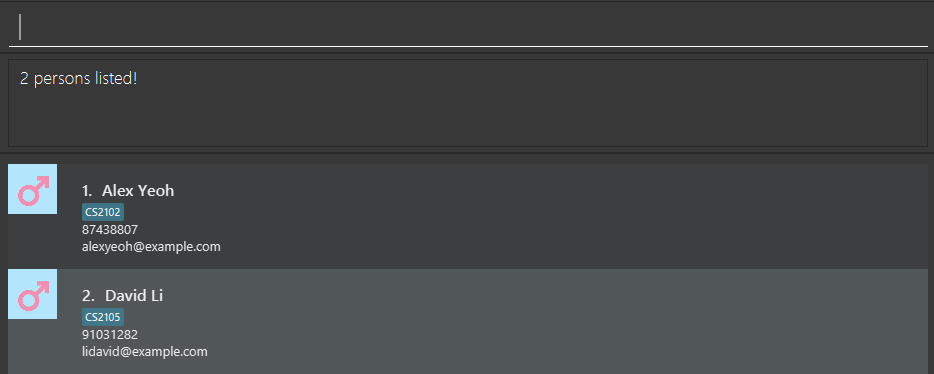
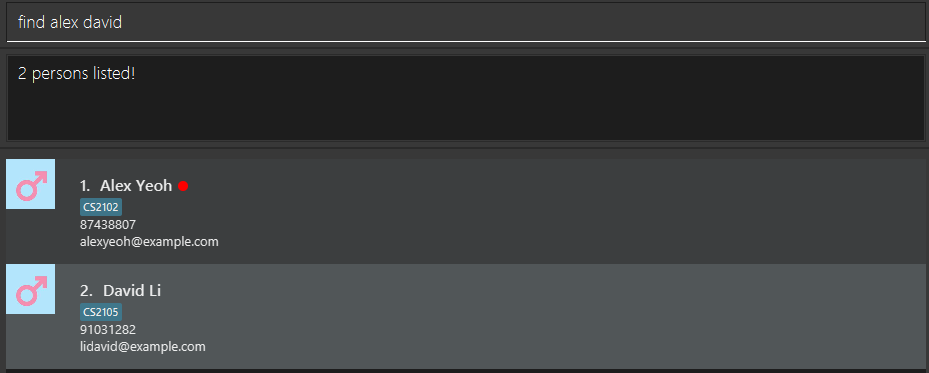
UG updates

diff --git a/docs/UserGuide.md b/docs/UserGuide.md
@@ -19,7 +19,7 @@
 1. Ensure you have Java `17` or above installed in your Computer.<br>
    **Mac users:** Ensure you have the precise JDK version prescribed [here](https://se-education.org/guides/tutorials/javaInstallationMac.html).
 
-1. Download the latest `.jar` file from [here](https://github.com/se-edu/mentorstack-level3/releases).
+1. Download the latest `.jar` file from [here](https://github.com/AY2425S2-CS2103-W11-1/tp/releases).
 
 1. Copy the file to the folder you want to use as the _home folder_ for Mentorstack.
 
@@ -65,7 +65,24 @@
 * Extraneous parameters for commands that do not take in parameters (such as `help`, `list`, `exit` and `clear`) will be ignored.<br>
   e.g. if the command specifies `help 123`, it will be interpreted as `help`.
 
-* If you are using a PDF version of this document, be careful when copying and pasting commands that span multiple lines as space characters surrounding line-breaks may be omitted when copied over to the application.
+**Notes about entries in Mentorstack**:
+
+* Each student entry in Mentorstack must have valid parameters for the following:
+  - Name
+  - Gender
+  - Phone
+  - Email
+  - Subject
+
+
+* Students must have 1 or more subjects, each subject can be marked as finished or unfinished.
+* Students can be archived, in which case they will be moved to the archive list where they cannot be edited.
+* Two student entries are considered the same entry if they have the same Name (case-sensitive).
+* Mentorstack does not allow duplicate entries.
+  - `Alex Yeoh` is a duplicate of `Alex Yeoh`, but is a different entry from `alex yeoh`.
+
+
+If you are using a PDF version of this document, be careful when copying and pasting commands that span multiple lines as space characters surrounding line-breaks may be omitted when copied over to the application.
 </box>
 
 ### Viewing help : `help`
@@ -85,10 +102,10 @@ Format: `add n/NAME g/GENDER p/PHONE_NUMBER e/EMAIL s/SUBJECT…`
 
 <box type="tip" seamless>
 
-**Tip:** A person can have any number of subjects (excluding 0)
+**Tip:** A person can have any number of subjects (excluding 0).
 </box>
 
-A person can only have F or M as gender inputs
+A person can only have F or M as gender inputs.
 </box>
 
 Examples:
@@ -111,6 +128,7 @@ Format: `edit INDEX [n/NAME] [g/GENDER] [p/PHONE] [e/EMAIL] [s/SUBJECT]…`
 * At least one of the optional fields must be provided.
 * Existing values will be updated to the input values.
 * When editing subjects, the existing subjects of the person will be removed i.e adding of subjects is not cumulative.
+* Finished subjects cannot be edited.
 * Cannot edit students who are already archived.
 
 Examples:
@@ -156,15 +174,14 @@ Keyword | Field
 * For NAME and SUBJECT, partial words will be matched e.g. `Han` will match `Hans`, `CS` will match `CS2103`
 * For SUBJECT, only unfinished subjects will be considered e.g. finished subjects are not counted by the filter.
 * For PHONE and EMAIL, partial words will be matched e.g. `123` will match `12345678`, `john` will match `john@doe.com`
-* `view` with invalid arguments will just list all persons.
-* `view` with no arguments will just list all persons.
+* `view` with invalid, incomplete or no arguments will just list all persons.
 * `view` can have multiple filters applied for any field (can be the same field).
 * Persons matching all filters will be returned (i.e. `AND` search).
 
 Examples:
-* `view f/n v/john` returns `john` and `John Doe`
-* `view f/s v/CS` returns all entries taking CS courses
-* `view f/p v/12345678 f/e v/john@doe.com` returns only entries with matching PHONE AND EMAIL<br>
+* `view f/n v/john` returns `john` and `John Doe`.
+* `view f/s v/CS` returns all entries taking CS courses.
+* `view f/p v/12345678 f/e v/john@doe.com` returns only entries partially containing PHONE AND EMAIL.<br>
 
 ### Deleting a person : `delete`
 
@@ -213,6 +230,7 @@ Examples:
 * Marked students will have a red circle next to their name.
 * Input can contain multiple indices.
 * Students remain marked if they have already been marked.
+* Archived students cannot be marked.
 
 Format: `mark INDEX…`
 
@@ -224,6 +242,7 @@ Examples:
 * Unmarks a student in Mentorstack.
 * Input can contain multiple indices.
 * Students remain unmarked if they have already been unmarked.
+* * Archived students cannot be unmarked.
 
 Format: `unmark INDEX…`
 
@@ -264,13 +283,14 @@ Examples:
 ### Indicate that a student has finished a subject : `finish`
 
 * Indicates that a student has finished a subject.
-* Finished subjects are still shown but will be marked as red.
+* Finished subjects are still shown but will be marked as a different colour.
 
 Format: `finish INDEX s/SUBJECT…`
 
 * Input can only contain subjects that students have enrolled in.
 * Input can contain multiple subjects.
 * Finished subjects remain finished.
+* Subjects of archived students cannot be finished.
 
 Examples:
 * `finish 1 s\CS2103` marks CS2103 as completed by student 1.
@@ -285,6 +305,7 @@ Format: `unfinish INDEX s/SUBJECT…`
 * Input can only contain subjects that students have enrolled in.
 * Input can contain multiple subjects.
 * Unfinished subjects remain unfinished.
+* Subjects of archived students cannot be unfinished.
 
 Examples:
 * `unfinish 1 s\CS2103` marks CS2103 as not completed by student 1.
@@ -294,6 +315,23 @@ Examples:
 Exits the program.
 
 Format: `exit`
+
+### Changing Mentorstack theme
+
+Mentorstack provides 3 visual themes to suit your preferences. You can change the theme by navigating to the View menu.
+
+Number| Theme
+------|----------------------------------------------------------------------------------------------------------------------------------------------------------------------
+1     | Dark
+2     | Pink
+3     | Light
+
+Mentorstack will always launch the Dark theme by default.
+
+### Viewing bar chart statistics
+
+Mentorstack provides users with the option to view the statistics of students in the current active list, sorted by currently enrolled subjects.
+Users may view these statistics by navigating to the View menu.
 
 ### Saving the data
 
@@ -306,13 +344,9 @@ Mentorstack data are saved automatically as a JSON file `[JAR file location]/dat
 <box type="warning" seamless>
 
 **Caution:**
-If your changes to the data file makes its format invalid, mentorstack will discard all data and start with an empty data file at the next run.  Hence, it is recommended to take a backup of the file before editing it.<br>
+If your changes to the data file makes its format invalid, Mentorstack will discard all data and start with an empty data file at the next run.  Hence, it is recommended to take a backup of the file before editing it.<br>
 Furthermore, certain edits can cause Mentorstack to behave in unexpected ways (e.g., if a value entered is outside the acceptable range). Therefore, edit the data file only if you are confident that you can update it correctly.
 </box>
-
-### Archiving data files `[coming in v2.0]`
-
-_Details coming soon ..._
 
 --------------------------------------------------------------------------------------------------------------------
 
